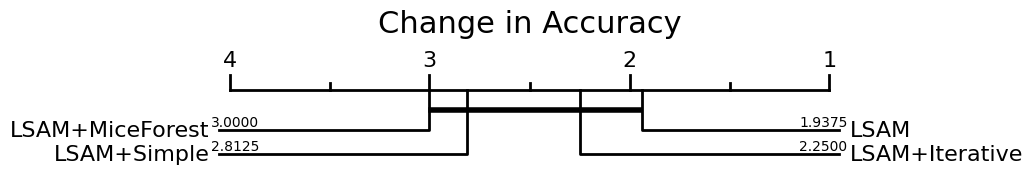
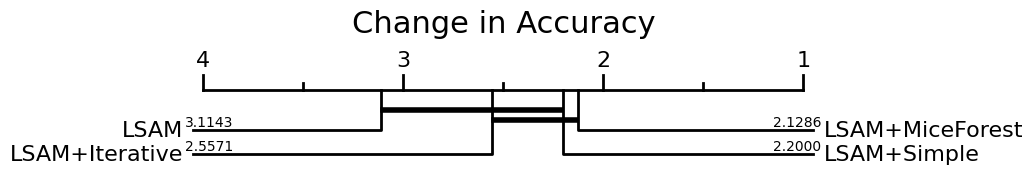
nll cd

diff --git a/cd-diagram/run_diagram.py b/cd-diagram/run_diagram.py
@@ -4,7 +4,7 @@ import itertools
 import os
 
 for missingness in ["MNAR", "MAR", "MCAR"]:
-    raw = pd.read_pickle('../results/openml/openml_results.pickle').dropna()
+    raw = pd.read_pickle('../results/openml/openml_acc.pickle').dropna()
     raw = raw.set_index((" ", " ", "Dataset"))
     # build 3 column input dataframe
     df_perf = {
@@ -29,10 +29,10 @@ for missingness in ["MNAR", "MAR", "MCAR"]:
     draw_cd_diagram(df_perf=df_perf, title='Change in Accuracy', labels=True)
 
 
-    os.rename("./cd-diagram.png", "./{}/cd-diagram.png".format(missingness.lower()))
+    os.rename("./cd-diagram.png", "./{}/cd-diagram-acc.png".format(missingness.lower()))
 
 for missingness in ["MNAR", "MAR", "MCAR"]:
-    raw = pd.read_pickle('../results/openml/openml_results.pickle').dropna()
+    raw = pd.read_pickle('../results/openml/openml_acc.pickle').dropna()
     raw = raw.set_index((" ", " ", "Dataset"))
     # build 3 column input dataframe
     df_perf = {
@@ -60,7 +60,7 @@ for missingness in ["MNAR", "MAR", "MCAR"]:
     os.rename("./cd-diagram.png", "./{}/cd-diagram-lsam.png".format(missingness.lower()))
 
 for missingness in ["MNAR", "MAR", "MCAR"]:
-    raw = pd.read_pickle('../results/openml/openml_results.pickle').dropna()
+    raw = pd.read_pickle('../results/openml/openml_acc.pickle').dropna()
     raw = raw.set_index((" ", " ", "Dataset"))
     # build 3 column input dataframe
     df_perf = {
@@ -88,4 +88,31 @@ for missingness in ["MNAR", "MAR", "MCAR"]:
 
     os.rename("./cd-diagram.png", "./{}/cd-diagram-lgbm.png".format(missingness.lower()))
 
+for missingness in ["MNAR", "MAR", "MCAR"]:
+    raw = pd.read_pickle('../results/openml/openml_nll.pickle').dropna()
+    raw = raw.set_index((" ", " ", "Dataset"))
+    # build 3 column input dataframe
+    df_perf = {
+        'classifier_name':[],
+        'dataset_name':[],
+        'accuracy':[]
+    }
 
+    print(raw.index)
+
+    for r in list(itertools.product(["Transformer", "LightGBM"], ["None", "Simple", "Iterative", "MiceForest"], raw.index)):
+        if (r[0] == "Transformer" and r[1] == "None") or (r[0] == "LightGBM" and r[1] != "None"):
+            name = "LSAM" if r[0] == "Transformer" else "LightGBM"
+            if r[1] == "None":
+                df_perf['classifier_name'].append(name)
+            else:
+                df_perf['classifier_name'].append(name + "+" + r[1])
+            df_perf['dataset_name'].append(r[2])
+            df_perf['accuracy'].append(-float(raw.loc[r[2]][missingness][r[1]][r[0]]))
+
+    df_perf = pd.DataFrame(df_perf)
+    print(df_perf)
+    draw_cd_diagram(df_perf=df_perf, title='Change in Accuracy', labels=True)
+
+
+    os.rename("./cd-diagram.png", "./{}/cd-diagram-nll.png".format(missingness.lower()))
